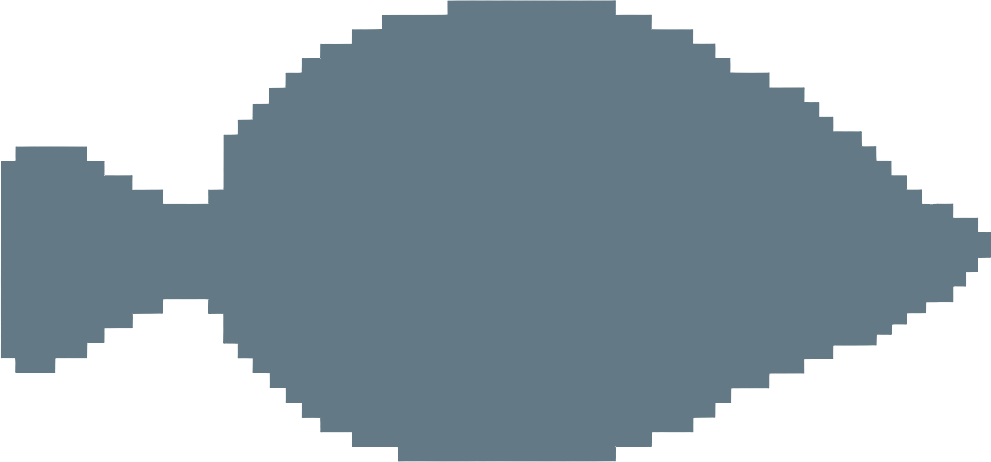
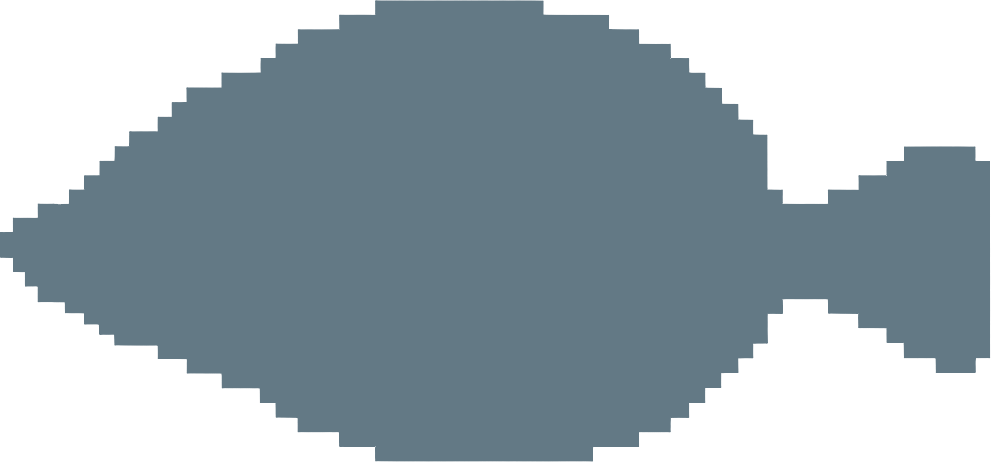
Familie-innlogging, utstyr over nett, NY ART-stempel, spilletid, Den glade propell
- «Logg inn med familiekode» på forsiden: ny nettleser henter hele familien
  (kun lesing; skrivefeil-koder lagres aldri, så familien kan ikke splittes)
- Utstyr følger spilleren over nett: stang, vinsj, turbo, sluker, agn, teiner,
  Rolex, motor m.m. — typet serverside-vask (aldri rå gjennomstrømming),
  monotone felter (stang/vinsj/ekko/turbo/spilletid) kan ALDRI krympe,
  verken på serveren eller i noen av de tre flettegrenene på klienten
- Valgt spiller mister remote-flagget: aktivt spilte kan aldri auto-slettes
- NY ART!-stempel på fangstplansjen ved førstegangsfangst (ny-art.png
  auto-plugges når kunsten lander; rød tekstbrikke til da)
- Spilletid per spiller: tikker på havet, synkes monotont, vises i Familie-fanen
- Rekordkortet flyter med samme bunnavstand som «Kast ut»-knappen
- Jensen Service AS → «Den glade propell» (logo auto-plugges, Jensen-fallback)
- Sei og sandflyndre floppet mot venstre + silhuetter regenerert
- Motprøvd review (15 agenter): alle bekreftede funn fikset og verifisert

diff --git a/fiske.html b/fiske.html
@@ -108,10 +108,15 @@
     background:rgba(10,25,30,.55)}
   .modal.on{display:flex}
   #catchModal{align-items:flex-end;padding:0;background:linear-gradient(to bottom,rgba(10,25,30,.08) 0%,rgba(10,25,30,.14) 45%,rgba(10,25,30,.55) 78%)}
-  #catchModal .card{max-height:min(46%,400px);overflow:auto;border-radius:16px 16px 0 0;border-bottom:0;box-shadow:0 -6px 0 rgba(0,0,0,.12);margin:0 auto}
-  #rekModal{align-items:flex-end;padding:0;background:linear-gradient(to bottom,rgba(10,25,30,.08) 0%,rgba(10,25,30,.14) 45%,rgba(10,25,30,.55) 78%)}
+  #catchModal .card{max-height:min(46%,400px);overflow-y:auto;overflow-x:hidden;border-radius:16px 16px 0 0;border-bottom:0;box-shadow:0 -6px 0 rgba(0,0,0,.12);margin:0 auto}
+  #catchModal .card{position:relative} /* stempelet ankres til kortet, ikke skjermen */
+  #nyArtWrap{position:absolute;top:30px;right:6px;z-index:3;pointer-events:none;transform:rotate(-10deg);animation:nyArtPop .55s cubic-bezier(.2,1.6,.4,1) both}
+  #nyArtWrap img{max-height:72px;image-rendering:pixelated;display:none}
+  #nyArtWrap span{display:inline-block;background:var(--red);color:#fff;font-weight:800;font-size:20px;padding:6px 14px;border-radius:10px;box-shadow:0 4px 0 rgba(0,0,0,.25);letter-spacing:1px}
+  @keyframes nyArtPop{0%{transform:rotate(-10deg) scale(0)}70%{transform:rotate(-10deg) scale(1.15)}100%{transform:rotate(-10deg) scale(1)}}
+  #rekModal{align-items:flex-end;padding:0 10px calc(14px + env(safe-area-inset-bottom));background:linear-gradient(to bottom,rgba(10,25,30,.08) 0%,rgba(10,25,30,.14) 45%,rgba(10,25,30,.55) 78%)}
   #rekModal .cardwrap{margin:0 auto}
-  #rekModal .card{max-height:min(52%,420px);overflow:auto;border-radius:16px 16px 0 0;border-bottom:0;box-shadow:0 -6px 0 rgba(0,0,0,.12)}
+  #rekModal .card{max-height:min(52%,420px);overflow:auto} /* flyter med samme bunnavstand som «Kast ut»-knappen */
   .card{background:var(--paper);border:4px solid var(--wood-dark);border-radius:16px;padding:18px;width:100%;max-width:440px;
     max-height:88%;overflow:auto;box-shadow:0 12px 0 rgba(0,0,0,.15)}
   .card h2{margin:.1em 0 .4em;color:var(--wood-dark);font-size:20px}
@@ -163,6 +168,7 @@
   @media (max-height:430px){ /* mobil i landskap: kompakt bunnpanel så fisken synes under kamp */
     .vbar{height:64px} #reelui .bars{gap:10px}
     #sea .bottom{gap:4px;padding-bottom:calc(6px + env(safe-area-inset-bottom))}
+    #rekModal{padding-bottom:calc(6px + env(safe-area-inset-bottom))}
     .hint{font-size:13px;margin:0}
     .actionbtn{padding:11px 18px;font-size:15px} }
   .slot.locked{opacity:.72}
@@ -173,6 +179,7 @@
   .tabs button.on{background:var(--wood);color:#fff}
   .fam{margin-top:8px}
   .fam .frow{display:flex;justify-content:space-between;font-family:var(--mono);font-size:13px;padding:7px 4px;border-bottom:1px dashed var(--paper-2)}
+  .fam .frow>span{text-align:right} /* lange rader som brytes på smal mobil holder høyrejusteringen */
   .shopitem .t img.shoplogo{height:18px;vertical-align:-4px;margin-right:3px}
   .shopitem .t img.shoplogo.rund{height:22px;border-radius:50%;vertical-align:-6px}
   .shopimg{flex:0 0 56px;display:grid;place-items:center;font-size:30px;min-height:44px}
@@ -295,6 +302,7 @@
 
   <!-- CATCH POPUP -->
   <div class="modal" id="catchModal"><div class="card center">
+    <div id="nyArtWrap" style="display:none"><img id="nyArtImg" alt="NY ART!"><span id="nyArtTekst">NY ART!</span></div>
     <h2 id="catchTitle">Fisk!</h2>
     <div class="catch-fish" id="catchFish"></div>
     <div class="statline" id="catchName"></div>
@@ -608,7 +616,7 @@ window.addEventListener("storage",function(ev){ // en annen fane skrev lagringen
     Object.keys(ny.players).forEach(function(nm){ if(famFarlig(nm))return; var np=ny.players[nm]; if(!np)return;
       if(!egen(DB.players,nm)){ DB.players[nm]=np; return; }
       var lp=DB.players[nm]; lp.caught=lp.caught||{}; famFlett(lp.caught, np.caught);
-      if(!P||nm!==P.name){ lp.kr=np.kr; lp.fuel=np.fuel; if(np.lures)lp.lures=np.lures; if(np.pots)lp.pots=np.pots; lp.rod=Math.max(lp.rod||0,np.rod||0); if(np.svc!=null)lp.svc=np.svc; if(np.vinsj)lp.vinsj=true; if(np.ekko)lp.ekko=true; }
+      if(!P||nm!==P.name){ lp.kr=np.kr; lp.fuel=np.fuel; if(np.lures)lp.lures=np.lures; if(np.pots)lp.pots=np.pots; lp.rod=Math.max(lp.rod||0,np.rod||0); if(np.svc!=null)lp.svc=np.svc; if(np.vinsj)lp.vinsj=true; if(np.ekko)lp.ekko=true; if(np.turbo)lp.turbo=true; if(np.tidMs!=null)lp.tidMs=Math.max(lp.tidMs||0,np.tidMs); }
     });
   }catch(e){} });
 /* ---------- Familierekorder på nett (Netlify Blobs via familiekode) ---------- */
@@ -624,24 +632,40 @@ function famFlett(mine,andre){ // artsrekorder er monotone: største verdi vinne
     if((b.bestLen||0)>(a.bestLen||0)){ a.bestLen=b.bestLen; if(b.redskap)a.redskap=b.redskap; if(b.rts)a.rts=b.rts; }
     a.bestWt=Math.max(a.bestWt||0,b.bestWt||0); if(b.gold)a.gold=Math.max(a.gold||0,b.gold); });
 }
+function gearUt(){ // utstyret som følger spilleren over nett (serveren hvitvasker)
+  return {rod:P.rod, fuel:P.fuel, fuelMax:P.fuelMax, svc:P.svc, forsTil:P.forsTil, havnNeste:P.havnNeste,
+    propOk:P.propOk, vinsj:P.vinsj, ekko:P.ekko, turbo:P.turbo, motorOk:P.motorOk, motor:P.motor, rig:P.rig,
+    lures:P.lures, pots:P.pots, agn:P.agn, rolex:P.rolex, tidMs:P.tidMs}; }
+function gearLoft(lp,g){ if(!g||typeof g!=="object")return; // de MONOTONE feltene — trygt å løfte inn overalt, kan aldri krympe noe
+  if(g.rod!=null)lp.rod=Math.max(lp.rod||0,+g.rod||0); // kjøpt utstyr kan aldri nedgraderes av en gammel innsending
+  if(g.tidMs!=null)lp.tidMs=Math.max(lp.tidMs||0,+g.tidMs||0); // spilletid er også monoton
+  ["vinsj","ekko","turbo"].forEach(function(k){ if(g[k])lp[k]=true; }); }
+function gearInn(lp,g){ if(!g||typeof g!=="object")return; // på fjernspeil: siste innsending vinner (ts-porten står utenfor)
+  ["fuel","fuelMax","svc","forsTil","havnNeste","propOk","motorOk","rolex","lures","pots","agn"].forEach(function(k){ if(g[k]!=null)lp[k]=g[k]; });
+  gearLoft(lp,g);
+  if(typeof g.motor==="string")lp.motor=g.motor; if(typeof g.rig==="string")lp.rig=g.rig; }
+function famTaImot(j){ // flett serverens familiebilde inn lokalt — erstatt aldri, lokal fremgang kan ikke krympes
+  if(!j||!j.players)return;
+  Object.keys(j.players).forEach(function(nm){ if(famFarlig(nm))return;
+    var rp=j.players[nm]||{};
+    if(P&&nm===P.name){ famFlett(P.caught, rp.caught); gearLoft(P, rp.gear); }            // egen fremgang fra andre enheter
+    else if(egen(DB.players,nm)&&!DB.players[nm].remote){ famFlett(DB.players[nm].caught, rp.caught); gearLoft(DB.players[nm], rp.gear); } // lokal navnebror: rekorder + monotont utstyr
+    else { var lp=egen(DB.players,nm)?DB.players[nm]:newPlayer(nm); lp.remote=true;
+      if(+rp.ts>=(lp.ts||0)){ lp.kr=rp.kr||0; lp.ts=+rp.ts||0; gearInn(lp,rp.gear); }
+      lp.caught=lp.caught||{}; famFlett(lp.caught, rp.caught); DB.players[nm]=lp; }
+  });
+  Object.keys(DB.players).forEach(function(nm){ var lp=DB.players[nm]; // slettet fra familien på nett → fjern speilet (aldri aktiv/valgt spiller)
+    if(lp&&lp.remote&&!(P&&nm===P.name)&&!egen(j.players,nm)) delete DB.players[nm]; });
+  saveAll();
+}
 function syncFam(force){ var code=famCode(); if(!code||!P||famBusy)return;
   var now=Date.now(); if(!force && now-famLast<45000)return; famBusy=true; famLast=now;
   var famFail=setTimeout(function(){famBusy=false},15000); // hengende nett skal aldri låse synken
   fetch(FAM_URL,{method:"POST",headers:{"Content-Type":"application/json"},
-    body:JSON.stringify({code:code, player:{name:P.name, kr:P.kr, caught:P.caught, ts:now}})})
+    body:JSON.stringify({code:code, player:{name:P.name, kr:P.kr, caught:P.caught, ts:now, gear:gearUt()}})})
   .then(function(r){ return r.ok?r.json():Promise.reject(r.status); })
-  .then(function(j){ clearTimeout(famFail); famBusy=false; if(!j||!j.players)return;
-    Object.keys(j.players).forEach(function(nm){ if(famFarlig(nm))return;
-      var rp=j.players[nm]||{};
-      if(nm===P.name){ famFlett(P.caught, rp.caught); }             // egen fremgang fra andre enheter
-      else if(egen(DB.players,nm)&&!DB.players[nm].remote){ famFlett(DB.players[nm].caught, rp.caught); } // lokal navnebror
-      else { var lp=egen(DB.players,nm)?DB.players[nm]:newPlayer(nm); lp.remote=true; // familie fra andre enheter — FLETT alltid, erstatt aldri (lokal fremgang kan ikke krympes)
-        if(+rp.ts>=(lp.ts||0)){ lp.kr=rp.kr||0; lp.ts=+rp.ts||0; }
-        lp.caught=lp.caught||{}; famFlett(lp.caught, rp.caught); DB.players[nm]=lp; }
-    });
-    Object.keys(DB.players).forEach(function(nm){ var lp=DB.players[nm]; // slettet fra familien på nett → fjern speilet (aldri aktiv/lokal spiller)
-      if(lp&&lp.remote&&nm!==P.name&&!egen(j.players,nm)) delete DB.players[nm]; });
-    saveAll(); famInfo="synket "+new Date().toTimeString().slice(0,5);
+  .then(function(j){ clearTimeout(famFail); famBusy=false;
+    famTaImot(j); famInfo="synket "+new Date().toTimeString().slice(0,5);
     var bm=document.querySelector("#bookModal");
     if(bm&&bm.classList.contains("on")){ if($("#bookMine").style.display!=="none") renderMine(); if($("#bookFam").style.display!=="none") renderFam(); if($("#bookRek").style.display!=="none") renderRek(); }
   }).catch(function(){ clearTimeout(famFail); famBusy=false; famInfo="fikk ikke kontakt"; });
@@ -668,12 +692,31 @@ function renderPlayers(){
     if(nm==="__proto__"||nm==="constructor"||nm==="prototype"){ alert("Velg et annet navn 🙂"); return; }
     if(!Object.prototype.hasOwnProperty.call(DB.players,nm))DB.players[nm]=newPlayer(nm); DB.last=nm; chosen(nm); saveAll(); renderPlayers()};
   box.appendChild(add);
+  if(!famCode()){ var lg=document.createElement("button"); lg.className="btn sm ghost"; // ny nettleser: hent familien med koden deres
+    lg.textContent="🔑 Logg inn med familiekode"; lg.onclick=famLogin; box.appendChild(lg); }
 }
-function chosen(name){P=DB.players[name]; if(!P.lures)P.lures={0:3,1:0,2:0};
+function famLogin(){
+  var c=(prompt("Familiekoden deres (den dere fant på sammen)?")||"").trim();
+  if(!c)return; if(c.length<4||c.length>40){ alert("Koden er 4–40 tegn 🙂"); return; }
+  $("#plist").insertAdjacentHTML("beforeend",'<span class="muted">🌊 Leter etter familien …</span>');
+  fetch(FAM_URL,{method:"POST",headers:{"Content-Type":"application/json"},body:JSON.stringify({code:c})}) // ren henting — skriver ingenting på serveren
+  .then(function(r){ return r.ok?r.json():Promise.reject(r.status); })
+  .then(function(j){
+    var antall=(j&&j.players)?Object.keys(j.players).filter(function(n){return !famFarlig(n)}).length:0;
+    if(!antall){ renderPlayers(); alert("Fant ingen familie med den koden. Sjekk stavemåten 🙂"); return; } // en skrivefeil skal ikke lagres og splitte familien
+    try{localStorage.setItem("storkveita-familiekode",c)}catch(e){}
+    famTaImot(j); famLast=0; renderPlayers();
+    alert("Velkommen! Fant "+antall+" i familien 👨👩👧 Trykk på navnet ditt og fisk i vei.");
+  })
+  .catch(function(){ renderPlayers(); alert("Fikk ikke kontakt med havet 🌊 Prøv igjen om litt."); });
+}
+function chosen(name){P=DB.players[name]; delete P.remote; // en valgt spiller er en EKTE lokal spiller — kan aldri auto-slettes av nettspeilingen
+  if(!P.lures)P.lures={0:3,1:0,2:0};
   if(P.caught==null)P.caught={}; if(P.fuelMax==null)P.fuelMax=24; if(P.fuel==null)P.fuel=P.fuelMax; if(P.rod==null)P.rod=0; if(P.kr==null)P.kr=0; // migrer gamle saves
   if(P.pots==null)P.pots={owned:0,bait:0,cap:2,out:[],rescue:false}; // teiner (fase 1: krabbeteine)
   if(P.pots.ownedH==null)P.pots.ownedH=0; // hummerteiner (sesong: 1. okt–31. des)
-  if(P.svc==null)P.svc=0; // turer siden forrige båtservice (Jensen Service AS, Ørnes)
+  if(P.tidMs==null)P.tidMs=0; // spilletid på havet, i millisekunder
+  if(P.svc==null)P.svc=0; // turer siden forrige båtservice («Den glade propell», Ørnes)
   if(P.propOk==null)P.propOk=true; if(P.forsTil==null)P.forsTil=0; // propell + båtforsikring
   if(P.havnNeste==null)P.havnNeste=Date.now()+30*864e5; // første havneavgift forfaller om en måned
   if(P.vinsj==null)P.vinsj=false; if(P.ekko==null)P.ekko=false; // djuphavsrigg + ekkolodd
@@ -726,7 +769,7 @@ function updateDepthLocks(){ var klar=vinsjKlar();
 function setDepth(d){
   if(!P)return;
   if(phase!=="idle")return; // ikke bytt dybde midt i fisking (gjelder også kart/pins)
-  if(d>=2&&P.motor!=="stor"){ setHint("Den lille motoren orker ikke "+ZONE[d].toLowerCase()+" — du trenger stormotoren fra Jensen ⚙"); return; }
+  if(d>=2&&P.motor!=="stor"){ setHint("Den lille motoren orker ikke "+ZONE[d].toLowerCase()+" — du trenger stormotoren fra Den glade propell ⚙"); return; }
   if(d===3){ if(!vinsjKlar())return;
     if(!P.vinsj){ setHint("Vinsj og dyphavsrigg trengs for djuphavet (300–500 m) — kjøp i butikken 🛒"); return; } }
   else if(d>P.rod){ setHint(RODS[d].n+" trengs for "+ZONE[d].toLowerCase()+" ("+DEPM[d]+") — kjøp i butikken 🛒"); return; }
@@ -787,8 +830,8 @@ function cast(){
       P.kr-=bpris; P.fuel+=kan; hud(); saveAll(); Snd.buy(); });
     return;
   }
-  if(!P.propOk){ notice("Propellen er ødelagt — Jensen Service AS har ny 🛠"); return; }
-  if(!P.motorOk){ notice("Motoren har havarert! Jensen Service AS venter på deg ⚙💥"); return; }
+  if(!P.propOk){ notice("Propellen er ødelagt — Den glade propell har ny 🛠"); return; }
+  if(!P.motorOk){ notice("Motoren har havarert! Den glade propell venter på deg ⚙💥"); return; }
   if(agnDef[P.rig]&&(P.agn[P.rig]||0)<1){ var tomN=agnDef[P.rig].n, fb=SLUK.filter(function(u){return (P.lures[u.k]||0)>0})[0];
     P.rig=fb?fb.k:"blink"; updateRigChip(); notice("Tomt for "+tomN+" — du fisker med "+(fb?fb.n.toLowerCase():"sluk")+" igjen 🪝"); }
   if(P.rig==="rustensuper"&&depth!==3){ notice("Superagnet er laget for djuphavet (300–500 m) — spar det til du er der nede 💎"); return; }
@@ -799,16 +842,16 @@ function cast(){
   // (ruller bare når du har råd til ny eller er forsikret — aldri softlock)
   if(Math.random()<(P.svc>250?1/120:1/400) && (Date.now()<P.forsTil||P.kr>=1400)){
     P.propOk=false; saveAll(); Snd.fiskerSur(); dogShow(2,4);
-    notice("KLONK! Propellen slo i noe og røk 🛠 Jensen Service AS har ny.");
+    notice("KLONK! Propellen slo i noe og røk 🛠 Den glade propell har ny.");
     if(navigator.vibrate)navigator.vibrate([40,30,80]); return; }
   if(P.motorOk && Math.random()<(P.svc>250?1/150:1/500) && P.kr>=8000){ // havari kun når reparasjon er innen rekkevidde
     P.motorOk=false; saveAll(); Snd.fiskerSur(); Snd.sadDog(); dogShow(2,5);
-    notice("MOTORHAVARI! 💥 Den hostet, smalt og døde. Jensen Service AS tar imot …");
+    notice("MOTORHAVARI! 💥 Den hostet, smalt og døde. Den glade propell tar imot …");
     if(navigator.vibrate)navigator.vibrate([90,60,90,60,140]); return; }
   flee=null; // evt. rømmende fisk ryddes ved nytt kast
   P.svc++;
-  if(P.svc===250) notice("Motoren hoster… På tide med service hos Jensen Service AS på Ørnes ⚙");
-  else if(P.svc>250 && P.svc%15===0) notice("Motoren hakker og bruker mer bensin — bestill service hos Jensen ⚙");
+  if(P.svc===250) notice("Motoren hoster… På tide med service hos Den glade propell på Ørnes ⚙");
+  else if(P.svc>250 && P.svc%15===0) notice("Motoren hakker og bruker mer bensin — bestill service hos Den glade propell ⚙");
   else if(Date.now()>P.havnNeste && P.svc%15===7) notice("Ørnes Båtforening purrer på havneavgiften ⚓ (betal i butikken)");
   P.fuel-=needF; hud(); saveAll(); Snd.cast(); castT=0.45; // ETT kast-animasjon
   phase="sink"; descend=0;
@@ -1019,6 +1062,7 @@ function land(){
   $("#catchAgn").style.display=agnAv?"inline-block":"none"; pending.agnAv=agnAv;
   drawFishInto($("#catchFish"),f,110);
   $("#catchTitle").textContent = f.trophy ? "STORKVEITA! 🏆" : (gold?"GYLLEN FISK! ✨" : isNew?"Ny art!":"Fisk!");
+  visNyArt(isNew&&!f.trophy); // stempel over plansjen ved førstegangsfangst (storkveita har sin egen fest)
   $("#catchName").innerHTML="<b>"+f.n+"</b>"+(gold?' ✨':'')+' <span class="rlab r'+(f.rar||0)+'">'+RARN[f.rar||0]+'</span>'+(isNew?'<span class="newtag">NY</span>':'')+(isRecord&&!isNew?'<span class="newtag">REKORD</span>':'');
   $("#catchSize").innerHTML="Lengde <b>"+len+" cm</b> · vekt <b>"+wt+" kg</b>";
   $("#catchKr").innerHTML="Verdi: <b>"+kr+" kr</b>"+(isDaily?' <span class="newtag" title="Rustens bestilling i dag">BESTILLING +50%</span>':'')
@@ -1029,6 +1073,14 @@ function land(){
   syncFam();
   saveAll(); modal("catchModal",true); (f.trophy||gold?Snd.trophy():(isRecord&&!isNew?Snd.trophy():Snd.land()));
   if(navigator.vibrate)navigator.vibrate(f.trophy?[80,50,80,50,120]:60);
+}
+var nyArtOK=null; // null=ikke prøvd ennå; eiers ny-art.png plugges automatisk inn når den lander i assets
+function visNyArt(vis){ var w=$("#nyArtWrap"); w.style.display=vis?"block":"none"; if(!vis)return;
+  w.style.animation="none"; void w.offsetWidth; w.style.animation=""; // stempel-poppen spilles på nytt hver gang
+  if(nyArtOK===null){ var im=$("#nyArtImg");
+    im.onload=function(){nyArtOK=true; im.style.display="block"; $("#nyArtTekst").style.display="none";};
+    im.onerror=function(){nyArtOK=false;}; // tekstmerket står til bildet finnes
+    im.src="spill/assets/ny-art.png"; }
 }
 function resolveCatch(sell){
   var pc=pending; if(!pc)return;
@@ -1382,6 +1434,9 @@ function updatePotBtn(){
   potSetState($("#potBtnL"),"l");  potPullState($("#potPullL"),"l",10*3600000);
 }
 setInterval(updatePotBtn,15000);
+setInterval(function(){ if(P&&!document.hidden&&document.querySelector("#sea").classList.contains("on")){ // spilletid teller bare når man faktisk er på havet
+  P.tidMs=(P.tidMs||0)+15000; if(P.tidMs%60000===0)saveAll(); } },15000);
+function tidTekst(ms){ var m=Math.round((+ms||0)/60000); if(m<60)return m+" min"; return Math.floor(m/60)+" t "+(m%60)+" min"; }
 
 /* ---------- Butikk ---------- */
 var shopLock=false;
@@ -1411,20 +1466,20 @@ function openShop(){
       "Samleren så den nyoppussede klokka hos urmakeren og MÅ ha den. Slå til?",-P.rolex.bud,false,
       function(){ var b=P.rolex.bud; P.rolex=null; notice("SOLGT! "+b.toLocaleString("nb")+" kr for Rolexen ⌚✨"); Snd.trophy(); });
   if(!P.motorOk){
-    addShop(L,'<img src="spill/assets/jensen-service-logo.png" class="shoplogo" alt=""> Reparer motoren',"Jensen åpner den, banner litt, og får liv i den igjen.",8000,false,function(){P.motorOk=true; notice("Motoren durer igjen! ⚙");});
-    addShop(L,'<img src="spill/assets/jensen-service-logo.png" class="shoplogo" alt=""> Liten påhengsmotor',"Ny, men beskjeden — klarer Grunt og Mellomdyp.",12000,false,function(){P.motor="liten"; P.motorOk=true; updateDepthLocks(); notice("Liten motor montert — grunt og mellomdyp venter ⚙");});
-    addShop(L,'<img src="spill/assets/jensen-service-logo.png" class="shoplogo" alt=""> Stor påhengsmotor',"Kraftpakke som drar deg helt ut til djuphavet.",45000,false,function(){P.motor="stor"; P.motorOk=true; updateDepthLocks(); notice("STORMOTOR! Hele havet er ditt ⚙✨");});
+    addShop(L,'<img src="spill/assets/den-glade-propell.png" class="shoplogo" alt="" onerror="this.onerror=null;this.src=\'spill/assets/jensen-service-logo.png\'"> Reparer motoren',"Den glade propell åpner den, banner litt, og får liv i den igjen.",8000,false,function(){P.motorOk=true; notice("Motoren durer igjen! ⚙");});
+    addShop(L,'<img src="spill/assets/den-glade-propell.png" class="shoplogo" alt="" onerror="this.onerror=null;this.src=\'spill/assets/jensen-service-logo.png\'"> Liten påhengsmotor',"Ny, men beskjeden — klarer Grunt og Mellomdyp.",12000,false,function(){P.motor="liten"; P.motorOk=true; updateDepthLocks(); notice("Liten motor montert — grunt og mellomdyp venter ⚙");});
+    addShop(L,'<img src="spill/assets/den-glade-propell.png" class="shoplogo" alt="" onerror="this.onerror=null;this.src=\'spill/assets/jensen-service-logo.png\'"> Stor påhengsmotor',"Kraftpakke som drar deg helt ut til djuphavet.",45000,false,function(){P.motor="stor"; P.motorOk=true; updateDepthLocks(); notice("STORMOTOR! Hele havet er ditt ⚙✨");});
   } else if(P.motor==="liten")
-    addShop(L,'<img src="spill/assets/jensen-service-logo.png" class="shoplogo" alt=""> Stor påhengsmotor',"Bytt opp: kraftpakka som drar deg til Dypt og djuphavet.",45000,false,function(){P.motor="stor"; updateDepthLocks(); notice("STORMOTOR! Hele havet er ditt ⚙✨");});
+    addShop(L,'<img src="spill/assets/den-glade-propell.png" class="shoplogo" alt="" onerror="this.onerror=null;this.src=\'spill/assets/jensen-service-logo.png\'"> Stor påhengsmotor',"Bytt opp: kraftpakka som drar deg til Dypt og djuphavet.",45000,false,function(){P.motor="stor"; updateDepthLocks(); notice("STORMOTOR! Hele havet er ditt ⚙✨");});
   if(!P.turbo&&P.rod>=2) addShop(L,'<img src="spill/assets/turbosnelle.png" class="shoplogo" style="image-rendering:pixelated" onerror="this.outerHTML=\'🎛 \'" alt=""> Turbosnelle',"Girutveksling i toppklasse — 30 % raskere kamp mot alt som biter.",30000,false,function(){P.turbo=true; notice("Turbosnella er montert — sveiva går som ei symaskin 🎛");});
   if(P.svc>=200){ var fSvc=Date.now()<(P.forsTil||0);
-    addShop(L,'<img src="spill/assets/jensen-service-logo.png" class="shoplogo" alt=""> Båtservice — Ørnes',
+    addShop(L,'<img src="spill/assets/den-glade-propell.png" class="shoplogo" alt="" onerror="this.onerror=null;this.src=\'spill/assets/jensen-service-logo.png\'"> Båtservice — Ørnes',
       (P.svc>250?"Motoren hoster og sluker ekstra bensin! ":"")+"Full service ("+P.svc+" turer siden sist)."+(fSvc?" Forsikringspris! 🛡":" (2500 med forsikring)"),
-      fSvc?2500:3500,false,function(){P.svc=0; notice("Motoren spinner som en katt igjen — takk, Jensen! ⚙");}); }
+      fSvc?2500:3500,false,function(){P.svc=0; notice("Motoren spinner som en katt igjen — takk, Den glade propell! ⚙");}); }
   if(!P.propOk){ var fDekt=Date.now()<(P.forsTil||0);
-    addShop(L,'<img src="spill/assets/jensen-service-logo.png" class="shoplogo" alt=""> Ny propell',
-      fDekt?"Propellen røk — men forsikringen dekker alt! 🛡":"Propellen røk — Jensen setter på ny. (Gratis med forsikring!)",
-      fDekt?0:1900,false,function(){P.propOk=true; notice("Ny propell på plass — takk, Jensen! 🛠");}); }
+    addShop(L,'<img src="spill/assets/den-glade-propell.png" class="shoplogo" alt="" onerror="this.onerror=null;this.src=\'spill/assets/jensen-service-logo.png\'"> Ny propell',
+      fDekt?"Propellen røk — men forsikringen dekker alt! 🛡":"Propellen røk — Den glade propell setter på ny. (Gratis med forsikring!)",
+      fDekt?0:1900,false,function(){P.propOk=true; notice("Ny propell på plass — takk, Den glade propell! 🛠");}); }
   var fDager=Math.max(0,Math.ceil(((P.forsTil||0)-Date.now())/864e5));
   addShop(L,"🛡 Båtforsikring (30 dager)",
     fDager>0?("Forsikret "+fDager+" dager til — kjøp for å forlenge. Gratis propell og forsikringspris på service."):"Gratis propellbytte og service til 2500 i stedet for 3500. Lønner seg!",
@@ -1553,12 +1608,12 @@ function renderFam(){
   var box=$("#bookFam"); box.innerHTML="";
   var names=Object.keys(DB.players);
   var rows=names.map(function(nm){var pl=DB.players[nm]; var kv=pl.caught["kveite"];
-    return {nm:nm, arter:Object.keys(pl.caught).length, kveite: kv?kv.bestLen:0, kr:pl.kr, stars:starSumFor(pl)}});
+    return {nm:nm, arter:Object.keys(pl.caught).length, kveite: kv?kv.bestLen:0, kr:pl.kr, stars:starSumFor(pl), tid:pl.tidMs||0}});
   rows.sort(function(a,b){return b.stars-a.stars || b.arter-a.arter || b.kveite-a.kveite});
-  box.insertAdjacentHTML("beforeend",'<div class="frow"><b>Spiller</b><span>★ · Arter · Største kveite</span></div>');
+  box.insertAdjacentHTML("beforeend",'<div class="frow"><b>Spiller</b><span>★ · Arter · Kveite · Tid</span></div>');
   var code=famCode();
   rows.forEach(function(r){
-    box.insertAdjacentHTML("beforeend",'<div class="frow"><b>'+esc(r.nm)+'</b><span>★ '+r.stars+' · '+r.arter+' arter'+(r.kveite?' · 🏆 '+r.kveite+' cm':'')+'</span></div>');
+    box.insertAdjacentHTML("beforeend",'<div class="frow"><b>'+esc(r.nm)+'</b><span>★ '+r.stars+' · '+r.arter+' arter'+(r.kveite?' · 🏆 '+r.kveite+' cm':'')+(r.tid?' · 🕐 '+tidTekst(r.tid):'')+'</span></div>');
   });
   if(!rows.length)box.innerHTML='<p class="muted center">Ingen spillere ennå.</p>';
   box.insertAdjacentHTML("beforeend", code
